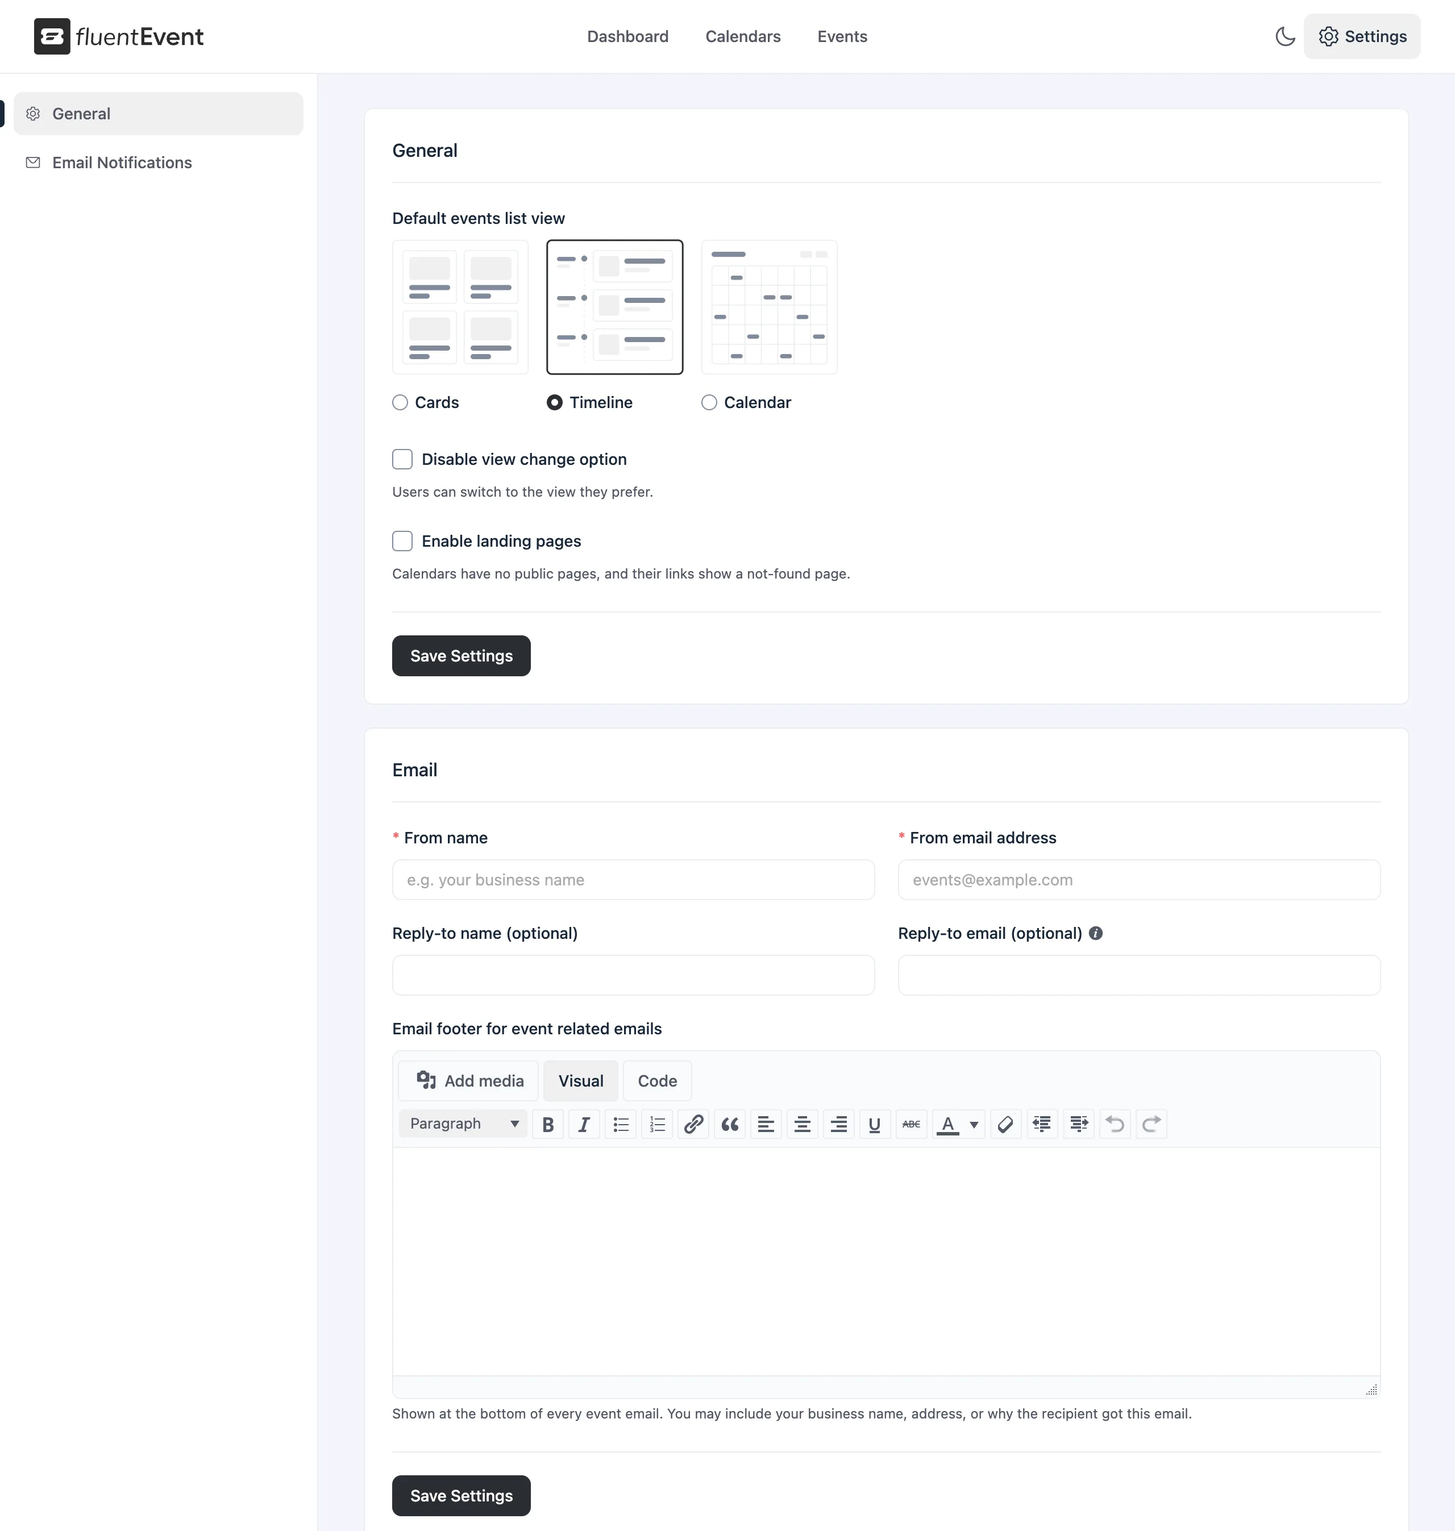
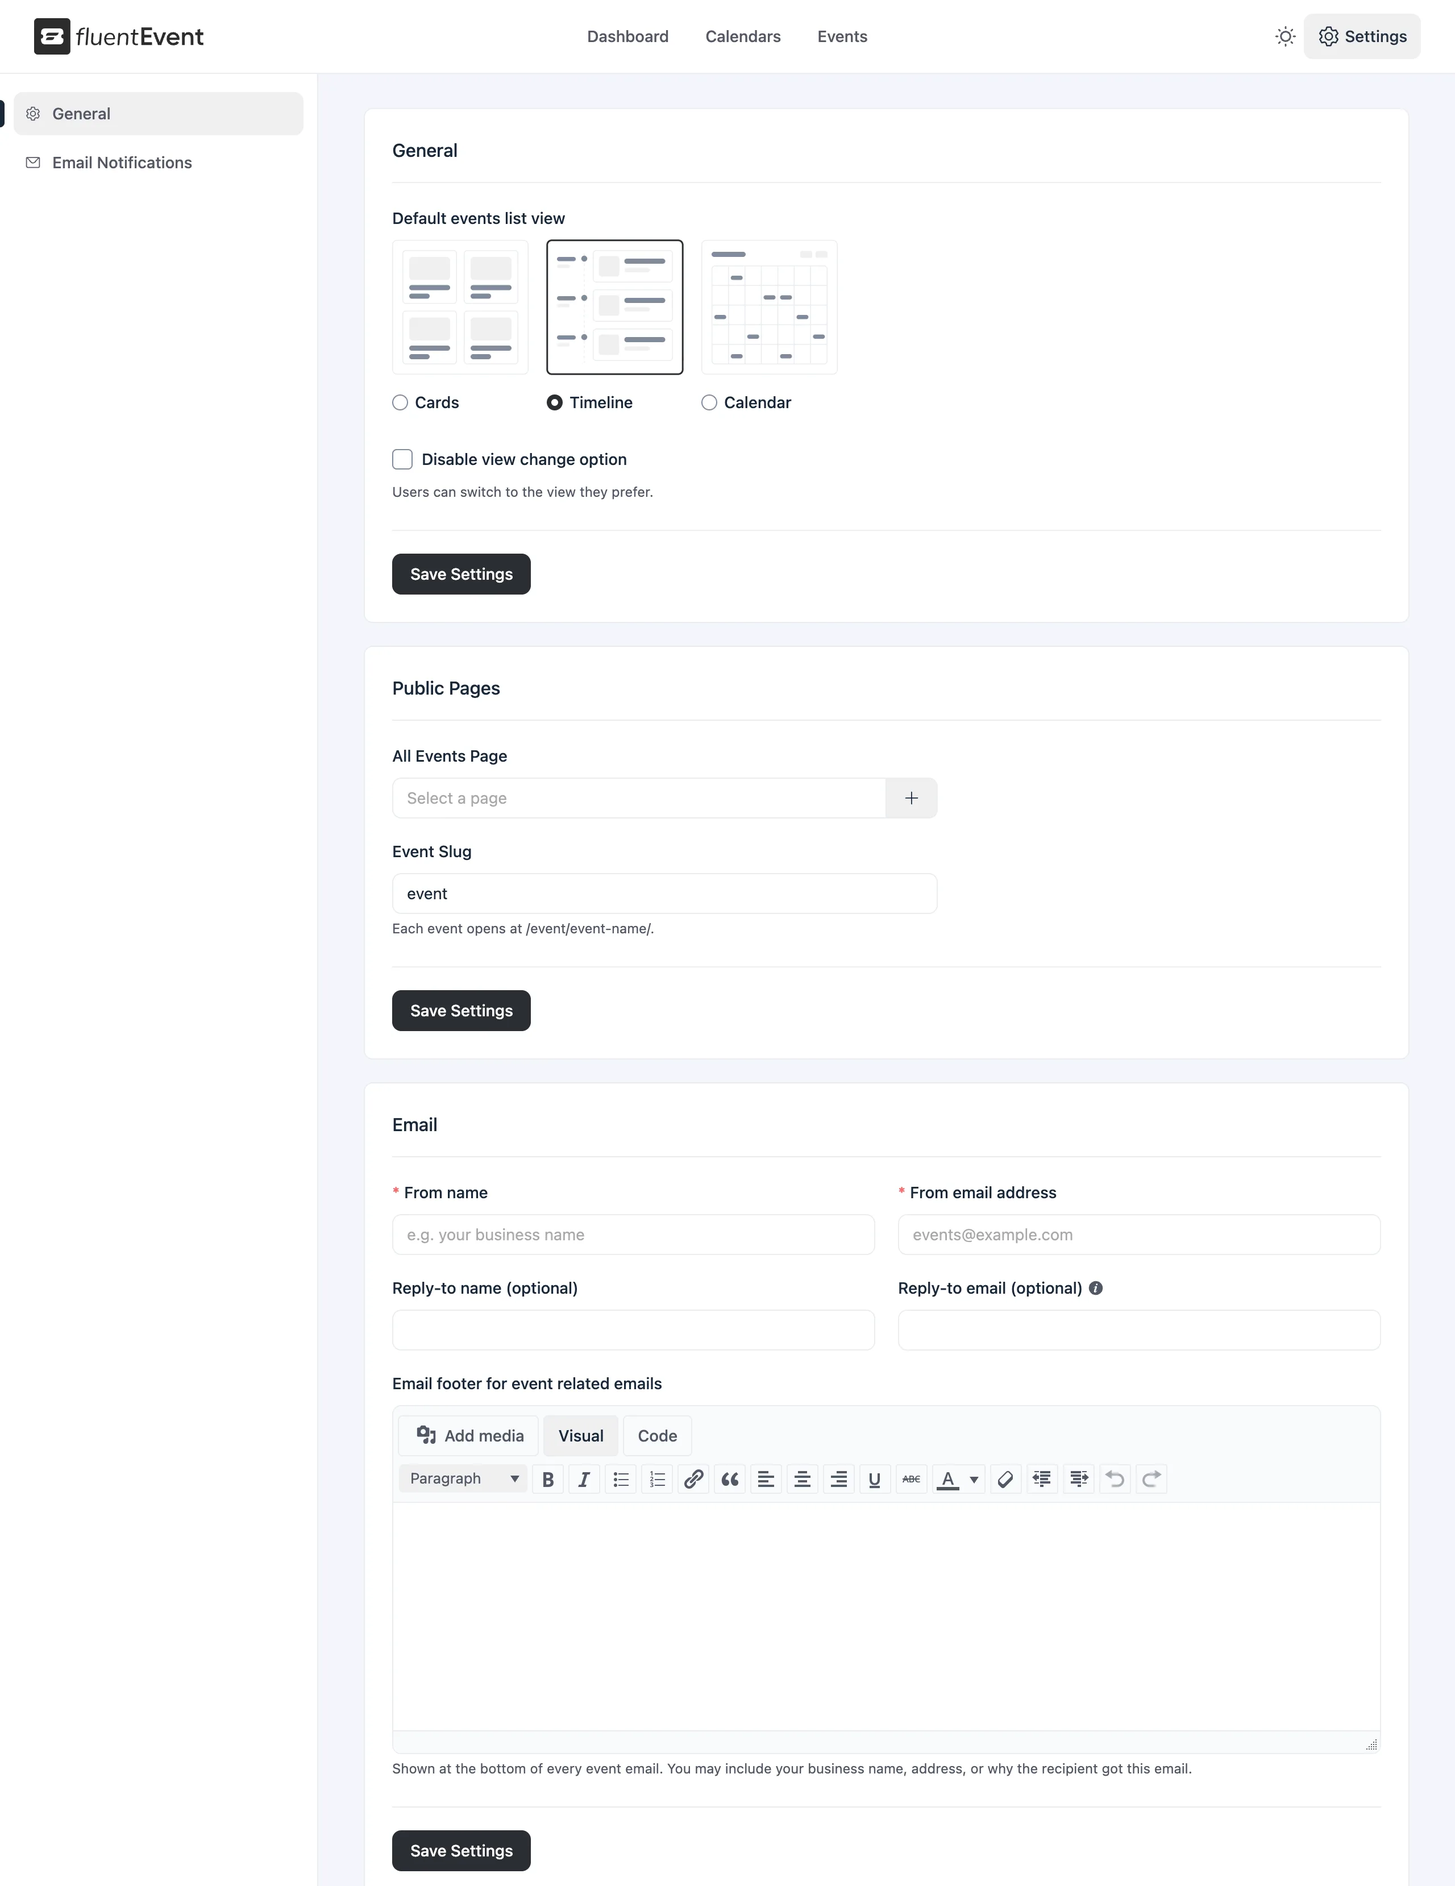
email docs update

diff --git a/docs/community/public-events-pages.md b/docs/community/public-events-pages.md
@@ -1,36 +1,73 @@
 ---
 title: Public Events Pages
-description: Share your events with visitors who are not community members using public pages for your calendars and events.
+description: Share your events with visitors who are not community members using a public page for each event and an events list on your site.
 ---
 
 # Public Events Pages
 
-**Public events pages** let anyone browse your public calendars and open an event without logging in to FluentCommunity. They are separate from the community portal and are off by default.
+**Public events pages** let anyone open an event, and register for it, without logging in to FluentCommunity. They are normal pages of your WordPress site, shown inside your theme with your header and footer.
 
-## Turn them on
+## How Public Pages Work
 
-1. Go to **FluentEvent** › **Settings** › **General**.
-2. Turn on **Enable landing pages**.
-3. Check the **Portal slug**. The default is `events`, so the page is at `yoursite.com/events`.
-4. Click **Save Settings**.
+Every event has its own page at `yoursite.com/event/event-name/`. You can also show a list of all events on a page of your own. No switch needs to be turned on.
 
-See [General settings](/general-settings) for every option on this screen.
+- **Event page**: One page for each event.
+- **Events list**: A list of your public events. Without any setup it is at `yoursite.com/event/`. If you choose an **All Events Page**, that page replaces it.
 
-## What visitors see
+To change the address or choose the list page, go to **FluentEvent** › **Settings** › **General** › **Public Pages**. See [General settings](/general-settings).
 
-- A list of **public** events from all your public calendars. When you have more than one public calendar, a chip for **All** and one for each calendar let visitors filter the list.
-- A page for each event, at `yoursite.com/events/<event-slug>`.
+## Opening an Event's Public Page
 
-The list follows your default view. Visitors can switch the view unless you turned on **Disable view change option**.
+In the admin, open the event and look at the **Public page** row on the **Overview** tab. It shows the link and a **Copy link** button. See [Edit or delete an event](/edit-or-delete-an-event).
 
-## What is shown
+The page shows the event's cover image, its title, the date, time and place, its calendar and **About This Event**. A box beside it holds the date in the event's timezone and in your site's timezone, a **Starts in** note, the registration button, the guest count and the venue.
 
-Only events in a calendar whose status is **Public** appear. The list shows events with the **Public** visibility. An **Unlisted** event is not in the list but opens from its direct link. Private and draft calendars and events show a not-found page, the same one as an event that does not exist.
+![An event's public page showing the cover image, details, registration and venue](/images/community/public-pages/1.-Public-Event-Page.webp)
 
-## Register from a public page
+An online event shows a **Join online** button instead of the venue, once the visitor has registered. Before that, a note asks them to register to see the meeting link. See [Meeting link visibility](/meeting-link-visibility).
 
-Visitors cannot RSVP as members, because there is no account. They register on Open events with a name and email. See [RSVP and Open modes](/event-entry-modes-rsvp-and-open).
+## Browsing the Events List
+
+The list follows your default view, and visitors can switch the view unless you turned on **Disable view change option**.
+
+- **Calendar chips**: **All** and one chip for each public calendar, so visitors can filter by calendar. A **More** chip holds the rest when there are many.
+- **Search events**: Finds an event by name.
+- **All**, **Upcoming** and **Past**: Choose which events to list. **Upcoming** is shown first.
+- **View icons**: Switch between cards, timeline and calendar. The calendar view has **Month**, **Week** and **Day** buttons.
+
+The list shows ten events at a time, with page links below. When nothing matches, it says "No events match your search."
+
+![The public events list in timeline view with calendar chips, search and the All, Upcoming and Past buttons](/images/community/public-pages/2.-Public-Events-List.webp)
+
+## Showing Events on Any Page
+
+Add the events list to any page or post with the shortcode `[fluent_events]`, or with the events block in the block editor. Show a single event with `[fluent_event]` or the **Fluent Event** block.
+
+The `[fluent_events]` shortcode accepts these options:
+
+- **calendar**: Show one calendar, for example `calendar="workshops"`.
+- **view**: Start in `cards`, `timeline` or `calendar`.
+- **filter**: Start with `upcoming`, `all` or `past`.
+- **view_switch**: Use `no` to hide the view icons.
+- **show_calendars**: Use `no` to hide the calendar chips.
+
+In the block editor, the same choices are in the block's **Events list** settings: **First calendar**, **Show calendar pills**, **View**, **View switcher** and **Events shown first**.
+
+## Choosing Which Events Appear
+
+An event has a public page only when both of these are true:
+
+- The event's visibility is **Public** or **Unlisted**.
+- The event's calendar is **Public**.
+
+The list shows **Public** events. An **Unlisted** event is not in the list but opens from its direct link, and search engines are asked not to list it. Private and draft events, and events in a private or draft calendar, show a **Page not found** page, the same one as an event that does not exist.
+
+## Registering from a Public Page
+
+Visitors do not need an account. On an **RSVP** event they choose **Interested?** then **Going**. On an **Open** event they click **Register**. Both ask for a **Name** and **Email**.
+
+After registering, the page shows **Going** or **Registered**, and a window with **Add to calendar** links opens. A visitor cannot change the answer afterward, because there is no account to change it from. Guests who register here show **WordPress Pages** as their source in the guest list. See [Manage event guests](/manage-event-guests).
 
 ::: warning
-Changing the **Portal slug** breaks links people already have. Choose it before you share the page.
+Changing the **Event Slug** changes the address of every event and breaks links people already have. Choose it before you share your events.
 :::

diff --git a/docs/settings/general-settings.md b/docs/settings/general-settings.md
@@ -1,30 +1,40 @@
 ---
 title: General Settings
-description: Set the default events view, control view switching, turn public landing pages on or off and set the email sender details.
+description: Set the default events view, choose the All Events page and event address for your public pages, and set the email sender details.
 ---
 
 # General Settings
 
-**FluentEvent** › **Settings** › **General** controls how events are listed for everyone and who the event emails come from.
+**FluentEvent** › **Settings** › **General** controls how events are listed, where your public events pages live and who the event emails come from. The screen has three sections, each with its own **Save Settings** button.
 
-![The General settings screen with the events view options, landing pages and email fields](/images/settings/general/1.-General-Settings.webp)
+![The General settings screen with the events view options, public pages and email fields](/images/settings/general/1.-General-Settings.webp)
 
 ## Choosing the Default Events List View
 
-- **Default events list view**: choose **Cards**, **Timeline** or **Calendar**. The default is **Timeline**. This view is used on the community Events page and in the admin.
-- **Disable view change option**: when on, everyone sees the selected view and cannot switch. When off (default), users can switch to the view they prefer.
+- **Default events list view**: Choose **Cards**, **Timeline** or **Calendar**. The default is **Timeline**. This view is used in the admin, on the community Events page and on your public events list.
+- **Disable view change option**: When on, everyone sees the selected view and cannot switch. When off (default), users can switch to the view they prefer.
 
-## Enabling Public Landing Pages
+Click **Save Settings** in this section to keep your changes.
 
-- **Enable landing pages**: when on, visitors can browse your public calendars and their events on public pages. When off (default), calendars have no public pages and their links show a not-found page.
-- **Portal slug**: where the public calendars page lives. The default is `events`. Leave it empty to use the site root. Changing it breaks links people already have. If your site sets `FLUENT_EVENT_PORTAL_SLUG` in `wp-config.php`, that value is used and the field is read-only.
+## Setting Up Public Pages
+
+The **Public Pages** section controls the pages visitors can open without logging in to FluentCommunity. Event pages work without any setup. This section lets you choose where the list of all events lives. See [Public events pages](/public-events-pages).
+
+- **All Events Page**: Choose the WordPress page that lists your events. Click the select and search for a page, or click **+** to create one.
+- **Event Slug**: The first part of every event's address. The default is `event`, so each event opens at `/event/event-name/`. The text under the field shows the address.
+
+To create a page, click **+**, enter a **Page Title** and click **Add**. FluentEvent creates the page and adds the events list to it.
+
+After you pick a page, FluentEvent shows the shortcode `[fluent_events]` with a **Copy shortcode** button and a **Preview** link. If the page does not hold the events list yet, a warning says "This page doesn't contain the shortcode or block yet." Add the shortcode or the events block to the page to fix it.
 
 ::: tip
-Only calendars with the **Public** status appear on landing pages. See [Create and edit a calendar](/create-and-edit-a-calendar).
+Only events with the **Public** or **Unlisted** visibility in a **Public** calendar have a public page. See [Calendars overview](/calendars-overview).
 :::
+
+Click **Save Settings** in this section to keep your changes. Changing the **Event Slug** changes the address of every event, so links people already have stop working.
 
 ## Finding the Email Sender and Footer Settings
 
 The same screen holds the sender details for event emails. Read [Email sender settings](/email-sender-settings) for each field.
 
-Click **Save Settings** to keep your changes.
+Click **Save Settings** in the **Email** section to keep your changes.

diff --git a/docs/help/frequently-asked-questions.md b/docs/help/frequently-asked-questions.md
@@ -7,7 +7,7 @@ description: Quick answers about requirements, who can create events, registrati
 
 ::: faq
 == Does FluentEvent work without FluentCommunity?
-No. Events are FluentCommunity posts, so FluentCommunity must be installed and active. The free version is enough. See [Install and activate FluentEvent](/install-and-activate-fluent-event).
+No. Events are FluentCommunity posts, so FluentCommunity must be installed and active, and your site needs WordPress 6.7 or newer. The free version of FluentCommunity is enough. See [Install and activate FluentEvent](/install-and-activate-fluent-event).
 == Who can create events?
 Site administrators. The FluentEvent admin and the **Create new event** page in the portal are for administrators only. See [Who can manage events](/team-permissions).
 == Can community members create events?
@@ -28,8 +28,12 @@ Check that the email is turned on, that the event is not a draft, and that your 
 Yes. After registering for an Open event, guests see **Google Calendar** and **Apple / Outlook** links. See [Add an event to your calendar](/add-an-event-to-your-calendar).
 == Does it support paid tickets or recurring events?
 Not in version 1.0.0. They are on the roadmap.
-== Why do calendar links show a not-found page?
-Public landing pages are off by default. Turn on **Enable landing pages** in [General settings](/general-settings), and set the calendar to **Public**.
+== Why does an event link show a page not found?
+An event has a public page only when its visibility is **Public** or **Unlisted** and its calendar is **Public**. Private and draft events, and events in a private or draft calendar, show a not-found page. See [Public events pages](/public-events-pages).
+== How do I show all my events on a page of my site?
+Go to **FluentEvent** › **Settings** › **General** › **Public Pages**, choose or create an **All Events Page** and save. You can also add the `[fluent_events]` shortcode to any page. See [Public events pages](/public-events-pages).
+== Can visitors register without an account?
+Yes, on the public page of an event. They register with a name and email on **RSVP** and **Open** events. See [Public events pages](/public-events-pages).
 == What happens to my data if I delete the plugin?
 Your events, guests and settings are kept, so nothing is lost if you reinstall.
 :::

diff --git a/docs/emails/email-notifications-overview.md b/docs/emails/email-notifications-overview.md
@@ -7,8 +7,6 @@ description: See which emails FluentEvent sends to guests, when each is sent and
 
 **FluentEvent** emails guests when they register, when they cancel and before an event starts. Manage all three in **FluentEvent** › **Settings** › **Email Notifications**.
 
-![The Email Notifications screen with confirmation, cancellation and reminder settings](/images/emails/overview/1.-Email-Notifications-Screen.webp)
-
 ## The Three Emails FluentEvent Sends
 
 - **Confirmation email**: sent when a guest registers as going. See [Confirmation and cancellation emails](/confirmation-and-cancellation-emails).
@@ -16,6 +14,18 @@ description: See which emails FluentEvent sends to guests, when each is sent and
 - **Reminder emails**: sent before the event starts, at times you choose. See [Event reminder emails](/event-reminder-emails).
 
 All three are on by default. Each has its own switch, so you can turn any off. Click **Save Settings** after changing them.
+
+![The Email Notifications screen with confirmation, cancellation and reminder settings](/images/emails/overview/1.-Email-Notifications-Screen.webp)
+
+## Previewing an Email
+
+Click the eye icon next to a switch to see what guests receive. The **Email Preview** window shows the **Subject** and the email as a guest sees it, with your footer. The preview uses sample details, such as a guest called Jane Doe, so no real guest is emailed.
+
+- **Preview the confirmation email**: The email guests get when they register.
+- **Preview the cancellation email**: The email guests get when a registration is cancelled.
+- **Preview the reminder email**: The email guests get before the event starts.
+
+![The Email Preview window showing the subject and the confirmation email](/images/emails/overview/2.-Email-Preview.webp)
 
 ## Sending Rules for Event Emails
 

diff --git a/docs/emails/event-reminder-emails.md b/docs/emails/event-reminder-emails.md
@@ -27,7 +27,7 @@ The default is one reminder, **24 Hours before**. Click **Add reminder** to add 
 
 Every guest of the event except those whose status is **Not Going** or **Cancelled**. Reminders are sent only for events whose visibility is **Public**, **Unlisted** or **Private**, so a **Draft** event sends none.
 
-The subject is "Reminder:" followed by the event name and "is coming up". The email states the start date, time and timezone.
+The subject is "Reminder:" followed by the event name and "is coming up". The email states the start date, time and timezone. Click the eye icon next to **Reminder emails** to preview it. See [Email notifications overview](/email-notifications-overview).
 
 ## How Reminders Respond to Event Changes
 

diff --git a/docs/community/events-in-the-community-feed.md b/docs/community/events-in-the-community-feed.md
@@ -12,7 +12,7 @@ When an event is posted in a space, it appears in the community feed like any ot
 ## Viewing an Event Post in the Feed
 
 - The post's author, time and the space it was posted in.
-- The **feed post** text the administrator wrote.
+- The **feed post** text the administrator wrote. If it was left empty, the event's title is used as the post text.
 - An event card with the date, the event name, the full date and time, and whether it is **Online** or **In person**.
 - The going count, for example "7 going", when the event shows it.
 - The RSVP button. Members see **Interested?** and choose **Going** or **Not going**. Visitors who are not logged in see **Log in to RSVP**, and Open events show **Register**.

diff --git a/docs/community/who-can-see-an-event.md b/docs/community/who-can-see-an-event.md
@@ -29,6 +29,10 @@ An event does not show to anyone in the community when:
 
 Anyone who opens the link to a hidden event sees the not-found page. The page does not say whether the event exists.
 
+## Public pages
+
+The community rules above apply inside FluentCommunity. Separately, a **Public** or **Unlisted** event in a **Public** calendar also has a public page on your site that anyone can open. See [Public events pages](/public-events-pages).
+
 ## Meeting links
 
 Seeing an event does not show the meeting link. On RSVP and Open events, only registered guests see it. See [Meeting link visibility](/meeting-link-visibility).

diff --git a/docs/settings/team-permissions.md b/docs/settings/team-permissions.md
@@ -28,4 +28,4 @@ Members cannot create events.
 
 ## What Visitors Can Do
 
-People who are not logged in can register for an **Open** event with a name and email. If you turn on landing pages, they can also browse public calendars. See [General settings](/general-settings).
+People who are not logged in can open the public page of a **Public** or **Unlisted** event and register with a name and email, on **RSVP** and **Open** events. They can also browse the public events list. See [Public events pages](/public-events-pages).

diff --git a/docs/emails/confirmation-and-cancellation-emails.md b/docs/emails/confirmation-and-cancellation-emails.md
@@ -29,4 +29,6 @@ Turn on **Cancellation email** to email guests when they cancel or when an admin
 
 Each email greets the guest and states the event name, date and time in the event's timezone. It ends with your email footer. Set the sender and footer in [Email sender settings](/email-sender-settings).
 
+Click the eye icon next to a switch to preview the email. See [Email notifications overview](/email-notifications-overview).
+
 Click **Save Settings** to keep your changes.

diff --git a/docs/community/event-page-in-the-community.md b/docs/community/event-page-in-the-community.md
@@ -15,6 +15,7 @@ Click an event in the feed or on the **Events** page to open its **event page**.
 - The date and time.
 - The place: the venue for an in-person event, or **Online** for an online one.
 - The going count, when the event shows it.
+- **Comments**: A comment box under the event, where members can discuss it. It is hidden when comments are turned off on the post.
 
 ## The details box
 

diff --git a/index.md b/index.md
@@ -32,7 +32,7 @@ features:
     link: /manage-event-guests
   - icon: 🗓
     title: Calendars
-    details: Group events in a calendar for each FluentCommunity space.
+    details: Group events in calendars, including the ones FluentEvent creates for your FluentCommunity spaces.
     link: /calendars-overview
   - icon: ✉
     title: Emails and Reminders
